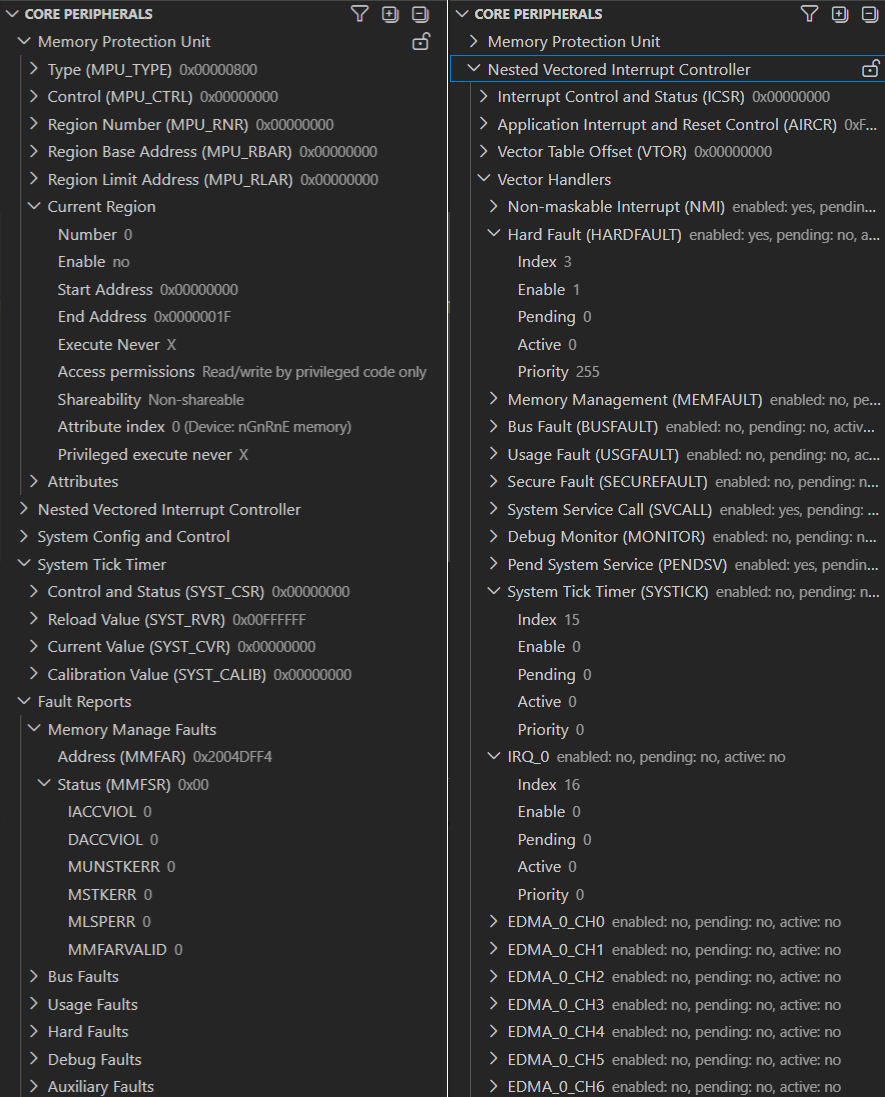
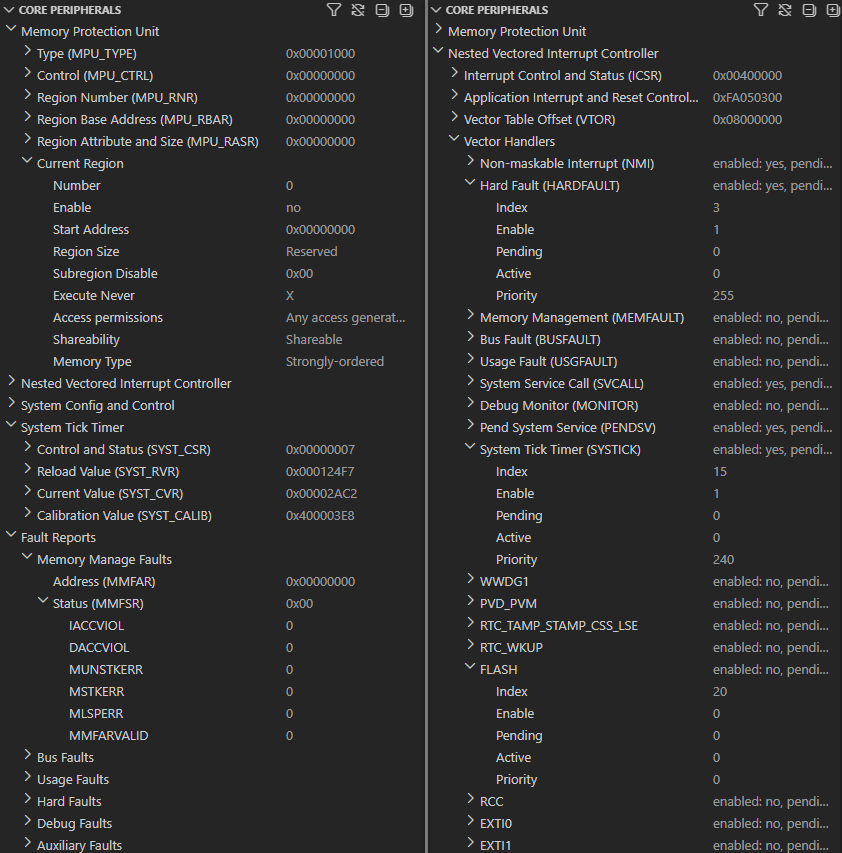
Update README.md and pictures for webview

diff --git a/README.md b/README.md
@@ -256,7 +256,7 @@ To add a logpoint, right-click in the editor left margin and select Add Logpoint
 Just like regular breakpoints, logpoints can be enabled or disabled and can also be controlled by a condition
 and/or hit count.
 
-### CPU Time
+### [CPU Time](#cpu-time)
 
 Most Arm Cortex-M processors (except Cortex-M0/M0+/M23) include a `DWT->CYCCNT` register that counts CPU states. In combination with the CMSIS variable [`SystemCoreClock`](https://arm-software.github.io/CMSIS_6/latest/Core/group__system__init__gr.html) the CMSIS Debugger calculates execution time and displays it along with the selected processor core in the CPU Time Status bar.  A click on the CPU Time Status bar opens the related [VS Code command palette](https://code.visualstudio.com/docs/getstarted/userinterface#_command-palette).
 
@@ -279,6 +279,10 @@ The **Trace and Live View**
 ![Trace and Live view](https://github.com/Open-CMSIS-Pack/vscode-cmsis-debugger/raw/main/images/TraceLiveView.png)
 (available from the VS Code Activity Bar) currently contains the [**LIVE WATCH**](#live-watch), the
 [**COMPONENT VIEWER**](#component-viewer), and the [**CORE PERIPHERALS**](#core-peripherals) views.
+
+The CMSIS Debugger stores dynamic view state per debug configuration in the `vscode-cmsis-debugger.viewState` VS Code setting. Stored state includes filter text and periodic update options for supported views, and the enabled/disabled state of [CPU Time](#cpu-time).
+
+When you start the same debug configuration again, the stored state is restored automatically. To clear the stored state, run the **CMSIS Debugger: Reset All Dynamic View States** command from the Command Palette.
 
 #### LIVE WATCH
 